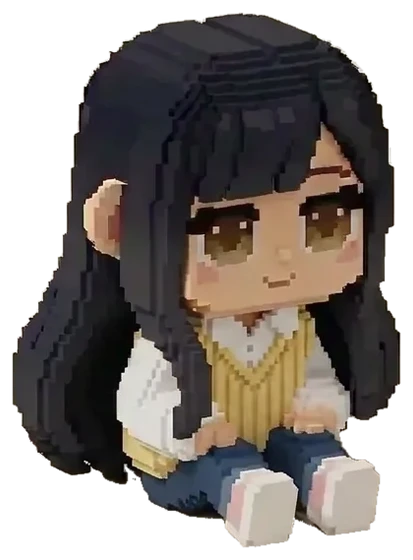
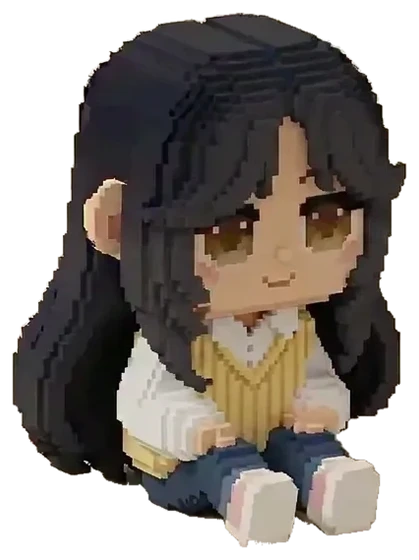
Chibi: new model, sits slightly lower, drops in together with the intro text

diff --git a/index.html b/index.html
@@ -131,18 +131,18 @@ main{padding:clamp(24px,3vw,46px) clamp(16px,3vw,46px) calc(130px + env(safe-are
   min-height:calc(100vh - clamp(24px,3vw,46px) - clamp(28px,3vw,40px));min-height:calc(100svh - clamp(24px,3vw,46px) - clamp(28px,3vw,40px))}
 .intro-text{display:grid;min-width:0;text-align:right}
 /* the blinking chibi beside the name (transparent cut-out; a still image for reduced motion) */
-.chibi{display:block;width:auto;height:clamp(150px,20vw,280px);margin:0}
+.chibi{display:block;width:auto;height:clamp(150px,20vw,280px);margin:0 0 -24px}   /* sits a little below the text's baseline */
 .chibi img{display:block;width:auto;height:100%}
 .chibi{transform-origin:50% 100%}
 /* landing sequence (first load only; the .play-in class is removed once it finishes):
-   the page starts empty, the intro text eases up line by line, then the chibi appears level with "Sharon",
-   drops to her spot, squashes and bounces twice. --drop-from is measured by script. */
+   the page starts empty; the intro text eases up line by line while, at the same moment, the chibi appears level with "Sharon"
+   and drops to her spot, squashes and bounces twice. --drop-from is measured by script. */
 @media (prefers-reduced-motion:no-preference){
   .intro.play-in .name,.intro.play-in .role,.intro.play-in .clock{animation:intro-in 900ms cubic-bezier(.22,.61,.36,1) both}
   .intro.play-in .name{animation-delay:150ms}
   .intro.play-in .role{animation-delay:320ms}
   .intro.play-in .clock{animation-delay:490ms}
-  .intro.play-in .chibi{animation:chibi-drop 1600ms 1100ms both}
+  .intro.play-in .chibi{animation:chibi-drop 1600ms 150ms both}   /* starts with "Sharon" */
 }
 @keyframes intro-in{from{opacity:0;transform:translateY(24px)}to{opacity:1;transform:none}}
 @keyframes chibi-drop{
@@ -347,7 +347,7 @@ footer{color:var(--ink-faint);font-size:.85rem;display:flex;justify-content:spac
     </div>
     <picture class="chibi">
       <source srcset="assets/sharon-still.webp" media="(prefers-reduced-motion: reduce)">
-      <img src="assets/sharon-blink.webp" width="414" height="560" alt="Pixel-art chibi of Sharon, blinking">
+      <img src="assets/sharon-blink.webp" width="419" height="560" alt="Pixel-art chibi of Sharon, blinking">
     </picture>
   </header>
   <div class="rail">
@@ -552,7 +552,10 @@ customElements.whenDefined('model-viewer').then(()=>{
   const done=()=>intro.classList.remove('play-in');
   // start the drop with her feet level with the top of "Sharon" (the chibi sits on the text block's baseline)
   const name=intro.querySelector('.name'), text=intro.querySelector('.intro-text');
-  if(chibi&&name&&text) chibi.style.setProperty('--drop-from',Math.round(name.getBoundingClientRect().top-text.getBoundingClientRect().bottom)+'px');
+  if(chibi&&name&&text){
+    const restBottom=text.getBoundingClientRect().bottom-parseFloat(getComputedStyle(chibi).marginBottom||0);   // her resting feet (she sits lower via a negative margin)
+    chibi.style.setProperty('--drop-from',Math.round(name.getBoundingClientRect().top-restBottom)+'px');
+  }
   if(chibi) chibi.addEventListener('animationend',done,{once:true});
   setTimeout(done,3200);   // fallback: reduced motion, or the page opened straight onto About
 })();
